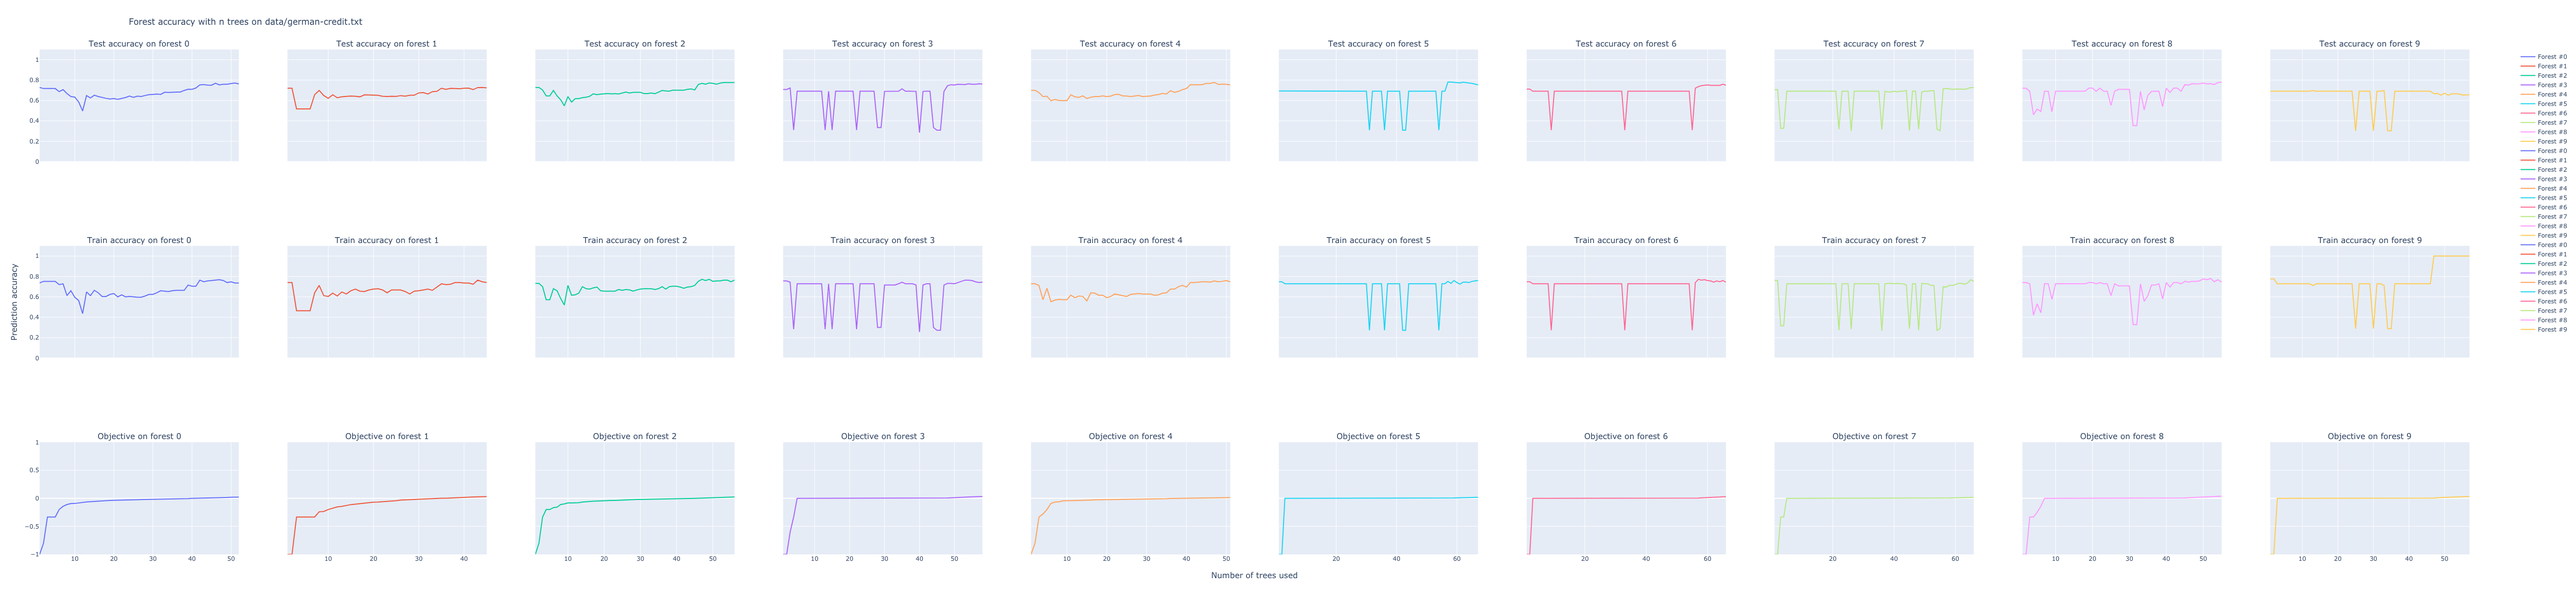
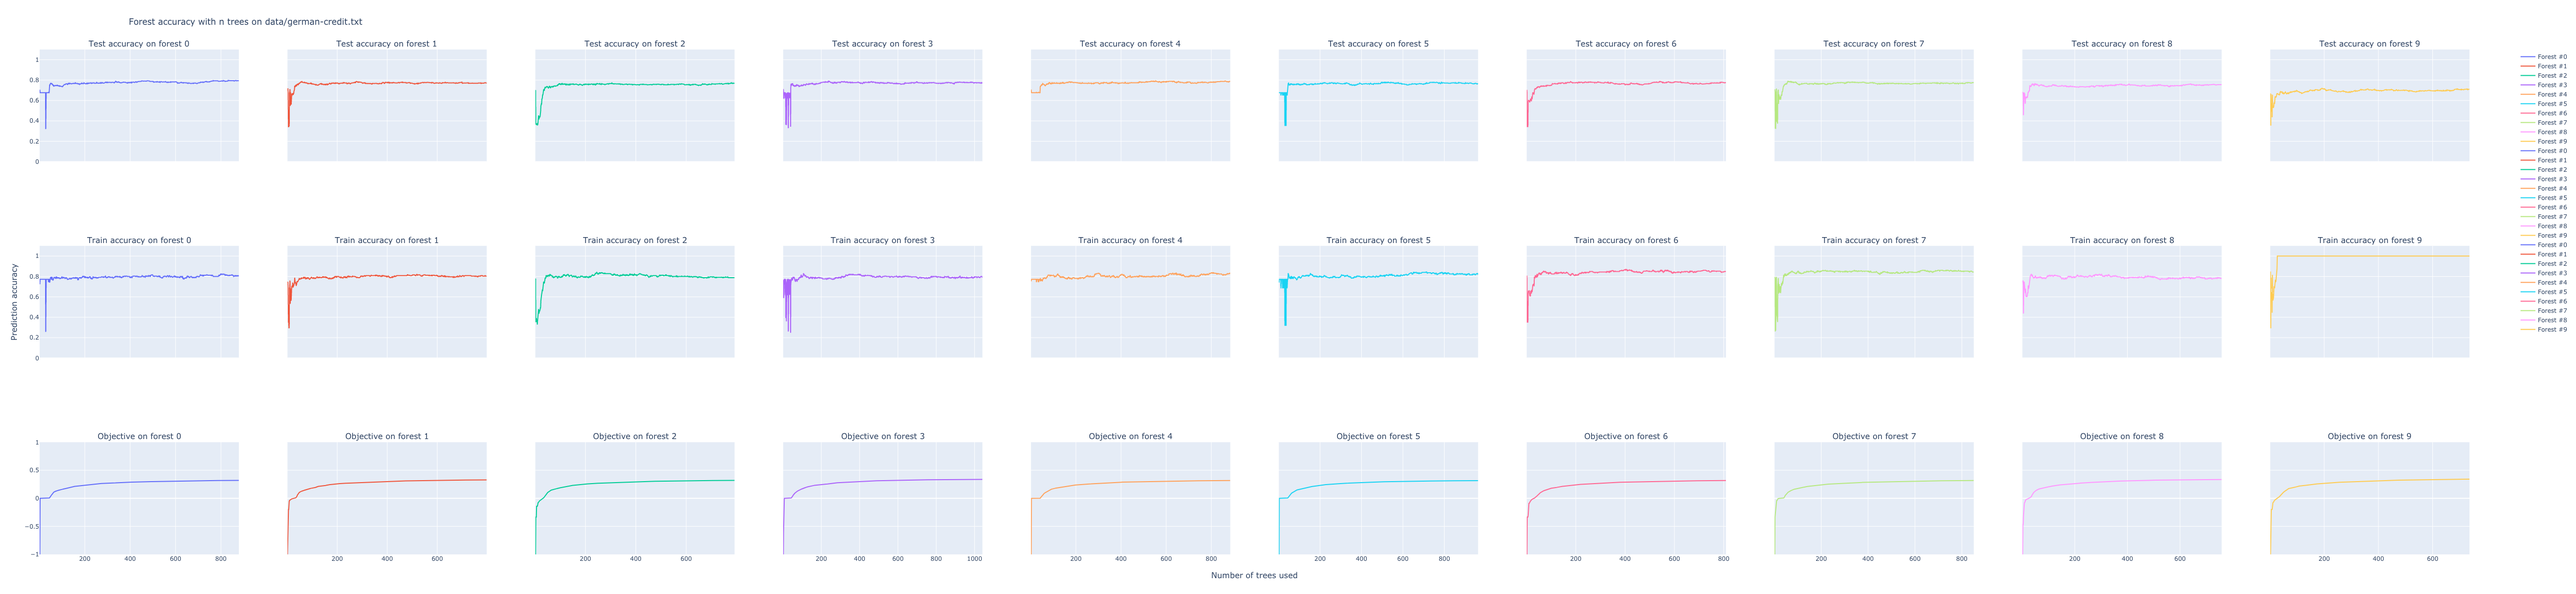
More tests

diff --git a/source/utils/forest_core.py b/source/utils/forest_core.py
@@ -9,7 +9,6 @@ import copy
 import sys
 import os
 
-D = 0
 MAX_ACC = False
 
 
@@ -23,6 +22,7 @@ class Forest(BaseEstimator, ClassifierMixin):
                  sampling_type="%",
                  optimised=False,
                  tree_limit=-1,
+                 error_weight=1,
                  **kwargs):
         self.estimators = []
         self.all_estimators = []
@@ -41,6 +41,7 @@ class Forest(BaseEstimator, ClassifierMixin):
         self.prev_pred = {}
         self.tree_limit = tree_limit
         self.objective = []
+        self.D = error_weight
 
     def fit(self, X, y):
         check_X_y(X, y)
@@ -89,7 +90,7 @@ class Forest(BaseEstimator, ClassifierMixin):
 
             if self.optimised:
                 pred.append(tree.predict(X))
-                weights, _ = calculate_tree_weights(pred, c, prev_tree_weights)
+                weights, _ = calculate_tree_weights(pred, c, self.D, prev_tree_weights)
                 self.all_weights.append(weights)
                 prev_tree_weights = weights
 
@@ -143,7 +144,7 @@ class Forest(BaseEstimator, ClassifierMixin):
 
             while cont:
                 # Run the dual
-                sample_weights, gamma = calculate_sample_weights(pred, c, prev_sample_weights)
+                sample_weights, gamma = calculate_sample_weights(pred, c, self.D, prev_sample_weights)
                 prev_sample_weights = sample_weights
 
                 # Error function for DL8
@@ -171,7 +172,7 @@ class Forest(BaseEstimator, ClassifierMixin):
                 tree_pred = [-1 if p == 0 else 1 for p in tree.predict(X)]
                 accuracy = sum([c[i] * sample_weights[i] * tree_pred[i] for i in range(sample_count)])
 
-                tree_weights, rho = calculate_tree_weights(pred, c, prev_tree_weights)
+                tree_weights, rho = calculate_tree_weights(pred, c, self.D, prev_tree_weights)
                 prev_tree_weights = tree_weights
 
                 sys.stdout.write(
@@ -281,7 +282,7 @@ class Forest(BaseEstimator, ClassifierMixin):
         return self.n_estimators
 
 
-def calculate_sample_weights(pred, c, prev_sample_weights=None):
+def calculate_sample_weights(pred, c, D, prev_sample_weights=None):
     # Dual problem
     tree_count = len(pred)
     sample_count = len(c)
@@ -311,7 +312,7 @@ def calculate_sample_weights(pred, c, prev_sample_weights=None):
     return [w.X for w in sample_weights], gamma.X
 
 
-def calculate_tree_weights(pred, c, prev_tree_weights=None):
+def calculate_tree_weights(pred, c, D, prev_tree_weights=None):
     tree_count = len(pred)
     sample_count = len(c)
 

diff --git a/source/utils/learning_manager.py b/source/utils/learning_manager.py
@@ -16,16 +16,20 @@ algo_names = {
     "G-boosting": gradient_boosting.GradientBoosting
 }
 
-MAX_DEPTH = 3
+MAX_DEPTH = 1
 
 kwargs = {
     "D-tree": {'min_samples_leaf': 2, 'max_depth': MAX_DEPTH},
     "R-forest": {'n_estimators': 20, 'max_depth': MAX_DEPTH},
     "CP-tree": {'max_depth': MAX_DEPTH},
     "DL8": {'max_depth': MAX_DEPTH},
-    "DL8-forest": {'n_estimators': 10, 'max_depth': MAX_DEPTH, 'attributes': "all"},
+    "DL8-forest": {'n_estimators': 10, 'max_depth': MAX_DEPTH, 'method': "all", 'attributes': "random"},
     "OptDL8-forest": {'n_estimators': 1, 'max_depth': MAX_DEPTH, 'method': "all", 'attributes': "progressive",
-                      'tree_limit': 10, "time_limit": 60, "min_sup": 5},
+                      'tree_limit': 1000, "time_limit": 60},
+    "OptDL8-forest2": {'n_estimators': 1, 'max_depth': MAX_DEPTH, 'method': "all", 'attributes': "progressive",
+                       'tree_limit': 10, "time_limit": 60, "error_weight": 0.5},
+    "OptDL8-forest3": {'n_estimators': 1, 'max_depth': MAX_DEPTH, 'method': "all", 'attributes': "progressive",
+                       'tree_limit': 10, "time_limit": 60, "error_weight": 0.2},
     "G-boosting": {'n_estimators': 20, 'max_depth': MAX_DEPTH}
 }
 

diff --git a/source/graphing/grapher.py b/source/graphing/grapher.py
@@ -128,7 +128,7 @@ def plot(algos):
                                    xaxis=dict(type='category', title='Number of trees in agreement'),
                                    yaxis=dict(title='Frequency (#)'))
                 g_unan = go.Figure(layout=layout)
-                g_unan.add_trace(go.Scatter(x=list(range(n_estimators[0] + 1)), y=unan))
+                g_unan.add_trace(go.Bar(x=list(range(n_estimators[0] + 1)), y=unan))
                 g_unan.write_image(
                     "plots/unan/unan_" + algo + "_" + file.split("/")[-1].split(".")[0] + file_manager.s + ".png")
 
